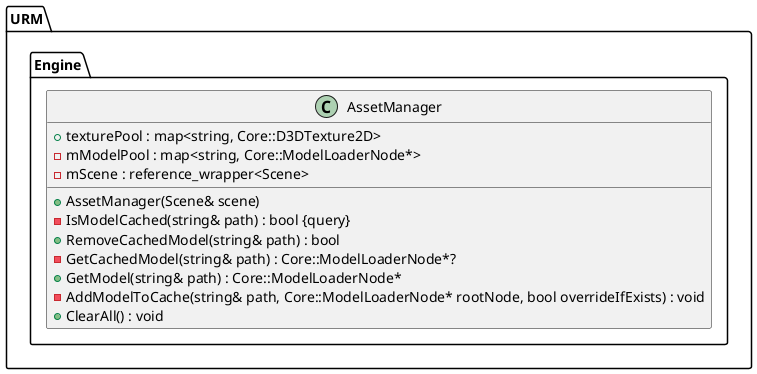
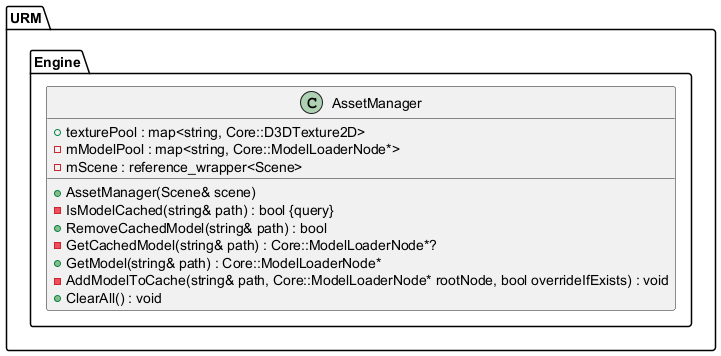
Finished chapter 5.

Changed region(s): [[0.0, 0.0, 1.0, 0.9888]]

diff --git a/Latex/chapter5.tex b/Latex/chapter5.tex
@@ -169,3 +169,25 @@ Pierwszym testowym rozwiązaniem było dodanie do sceny wskaźnika pustego typu 
 Drugą wersją byłoby utworzenie interfejsu typu \textit{IScene}, z którego następnie tworzone byłyby implementacje zawierające potrzebne dane. Niestety takie podejście także cierpi na konieczność walidacji typu danych przez obiekty sceny i ich pobierania przy pomocy niebezpiecznych konwersji, w związku z czym ta opcja i jej podobne także zostały odrzucone. 
 
 Ostatecznie przyjętym rozwiązaniem był kompromis na płaszczyźnie modularności. Warstwa rdzeniowa pozostała zupełnie niezależnym od pozostałych tworem, ale poziomy sceny i silnika zostały zintegrowane do jednej, wspólnej warstwy. Struktury cache umieszczono w ramach klasy \textit{Scene}. Takie podejście narzuca jednak problem z rozszerzalnością nowego, zunifikowanego modułu, gdyż nie ma bezpośredniej możliwości rozszerzenia jej o dodatkowe cache'owane dane. W związku z tym podjęta została decyzja o zmianie formy dystrybucji biblioteki na open-source. W większości docelowych przypadków użycia modułu nie będzie konieczności modyfikacji danych przechowywanych w ramach sceny i w takich przypadkach możliwe jest korzystanie z niego w formie prekompilowanej biblioteki, ale jeśli taka konieczność nastąpi to możliwe i zalecane jest dodanie warstwy silnika (z uwzględnioną w niej funkcjonalnością sceny) jako biblioteki w formie zintegrowanego do aplikacji klienta, modyfikowalnego kodu źródłowego. 
+
+\subsection{DPI awareness}
+Drobnym, ale istotnym problemem okazało się zachowanie aplikacji w przypadku konfiguracji komputerowych, w których skalowanie ekranu ustawione jest na wartość inną niż 100\%. System Windows raportuje w takich przypadkach rozdzielczość ekranu pomniejszoną o współczynnik skali, a następnie skaluje okna aplikacji o jej wartość. Dla przykładu przy skalowaniu 200\% i rozdzielczości monitora 4000x2000, system raportuje do aplikacji wartość 2000x1000, a następnie dwukrotnie skaluje jej okno, czego efektem jest rozmyty, niewyraźny obraz, co w wyolbrzymionej formie pokazane zostało na rys. \ref{Impl_DpiAwareness}.
+
+Rozwiązaniem jest załączenie do modułu tzw. manifest'u, czyli informacji o obsługiwanych przez aplikację funkcjach i uwzględnienie wśród nich DPI Awareness. Aplikacja raportująca wsparcie tego rozszerzenia nie jest traktowana przez system w opisany sposób, a zamiast tego otrzymuje prawdziwe informacje o monitorze i nie jest ona skalowana. W przypadku aplikacji renderujących trójwymiarową grafikę jest to preferowany sposób działania i w związku z tym manifest został dodany do modułu. 
+
+\begin{figure}[h!]
+	\centering
+	\includegraphics[width=\textwidth]{images/impl/4_dpi_awareness_8x.png}
+	\caption{Wizualizacja efektu rozmycia przy braku DPI awareness aplikacji - na przykładzie dla skalowania 800\%.}
+	\label{Impl_DpiAwareness}
+\end{figure}
+
+\vfill
+
+\subsection{Caching wczytywanych modeli}
+Dekodowanie danych o modelach oraz ich wczytywanie z dysku jest zadaniem wymagającym pod względem wymaganej mocy obliczeniowej i czasu potrzebnego do przetworzenia takich danych. Często spotykanym w świecie trójwymiarowych scen jest też zachowanie aplikacji, w których wczytują one pojedynczy model do wielokrotnego wykorzystania - na przykład krzak w grze z otwartym światem. Przy takim zachowaniu marnotrawnym byłoby każdorazowe przechodzenie przez proces wczytywania i dekodowania danych o tym samym modelu z dysku, więc w ramach modułu silnika utworzony został mechanizm zarządzania zasobami w postaci klasy \textbf{AssetManager}. Przechowuje ona wczytane modele i tekstury do późniejszego wykorzystania, ale pozwala także na ich zwolnienie przy zmianie sceny albo w sytuacjach o zmniejszonej dostępności wolnej pamięci podręcznej. 
+
+\subsection{PBR i system materiałów}
+Renderowanie oparte o PBR \textit{(ang. Physically Based Rendering)} jest aktualnym standardem w branży grafiki trójwymiarowej, więc obsługa renderowania o ten standard opartego została dodana do warstwy silnika. Z założenia modularności wynika jednak, że nie powinien być to jedyny wspierany system oświetlenia. Pierwszą próbą połączenia różnych typów kalkulacji świateł było wydzielenie najważniejszych komponentów Pixel Shader'a do osobnego pliku i dalszego wykorzystania. Chcąc utworzyć funkcjonalność jak najbardziej otwartą koniecznym było jednak zadbanie o nieograniczanie aplikacji klienta w kwestii tworzenia nowych, dowolnie skonstruowanych i rozwiniętych materiałów. W związku z tym wprowadzony został rozwinięty względem warstwy rdzeniowej system materiałów. Opiera się on na bazowej klasie \textbf{Material}, definiującej użyty do materiału Pixel Shader oraz przesyłanego do niego dane w postaci struktury typu \textbf{ConstantBuffer} i pozwala na zaimplementowanie wirtualnie dowolnej kombinacji materiału i programu cieniującego. 
+
+Największym problemem związanym z takim systemem okazało się jego połączenie z autodetekcją materiałów wczytywanych modeli. Została tutaj podjęta decyzja o ograniczeniu wsparcia tego mechanizmu jedynie do oświetlenia typu PBR, ale pozostawienie możliwości ręcznej implementacji podobnej funkcjonalności na podstawie opisanych przy okazji warstwy rdzeniowej \textit{MaterialProperties}. 

diff --git a/Latex/chapter11.tex b/Latex/chapter11.tex
@@ -65,7 +65,7 @@ Stworzona pierwotnie przez Marko Dabrovic'a, następnie ulepszona przez niemieck
 \vfill
 \clearpage
 
-\section{Demo detali - Roman Marble Plinth}
+\subsection{Demo detali - Roman Marble Plinth}
 Opisywany już w rozdziale testów model \textit{Roman Marble Ornate Plinth} z pakietu Quixel Megascans został głównym obiektem tej sekcji, ze względu na dużą ilość detali geometrii i tekstur. Przedstawiony w dwóch wersjach na rys. \ref{test_highpoly} model charakteryzuje się wysokim narzutem wydajnościowym przy rysowaniu, co dało wyraźny znak przy określaniu wydajności dema, czego szczegóły zostały przedstawione w poniższej tabeli.
 
 \begin{center}
@@ -95,7 +95,7 @@ Opisywany już w rozdziale testów model \textit{Roman Marble Ornate Plinth} z p
 	\label{test_highpoly}
 \end{figure}
 
-\section{Materiały}
+\subsection{Materiały}
 Ostatnim demo przedstawiającym główne funkcjonalności modułu jest pokazanie możliwości zaimplementowanego systemu materiałów. Scena testu, pokazana na rys. \ref{demo_materials} składa się z 3 głównych części.
  
 Głównym, środkowym elementem jest zbiór modeli kul o różnych parametrach materiałów. Elementy czerwone mają przypisany materiał typu PBR, a ich umieszczenie pokazuje różnice między jego parametrami. W osi pionowej od góry do dołu rośnie wartość chropowatości powierzchni - \textit{roughness}, a w poziomej od lewej do prawej parametr metaliczności. Kule zielone rysowane są przy pomocy uproszczonego materiału, a kolejne instancje zwiększają konfigurację chropowatości od lewej do prawej. 

diff --git a/diagrams/genUmlFromLib.py b/diagrams/genUmlFromLib.py
@@ -189,12 +189,14 @@ def scene_objects_model_uml_processor(lines_list: list[str]) -> list[str]:
     found_model_constructor = False
     found_deduce_material = False
     for (i, line) in enumerate(lines_list):
-        if line.strip() == "+MeshObject(Core::Mesh<Core::ModelLoaderVertexType>* mesh, Core::VertexShader* vertexShader, Core::D3DInputLayout<Core::ModelLoaderVertexType>* inputLayout, Core::Material* material)":
+        if line.strip().startswith("+MeshObject("):
             lines_list[i] = shorten_line_parameters(line)
+            lines_list[i] = shorten_params(lines_list[i])
             found_mesh_constructor = True
 
-        if line.strip() == "+ModelObject(string& path, Core::Material* material, Core::VertexShader* vertexShader, Core::ModelLoaderLayout* layout)":
+        if line.strip().startswith("+ModelObject("):
             lines_list[i] = shorten_line_parameters(line)
+            lines_list[i] = shorten_params(lines_list[i])
             found_model_constructor = True
 
         if "-TryDeduceMaterial(D3DCore& core, Core::MaterialProperty[] properties) : Core::Material*" in line:

diff --git a/Latex/chapter6.tex b/Latex/chapter6.tex
@@ -154,7 +154,7 @@
 		
 	\begin{figure}[h!]
 		\centering
-		\includegraphics[width=\textwidth]{images/UML/modelloader.png}
+		\includegraphics[width=200px]{images/UML/modelloader.png}
 		\caption{Schemat klasy statycznej ModelLoader wraz ze strukturą typu ModelLoaderNode.}
 		\label{UML_ModelLoader}
 	\end{figure}
@@ -168,7 +168,7 @@
 	
 	\begin{figure}[h!]
 		\centering
-		\includegraphics[width=\textwidth]{images/UML/texture.png}
+		\includegraphics[width=350px]{images/UML/texture.png}
 		\caption{Schemat modułu tekstur.}
 		\label{UML_Textures}
 	\end{figure}
@@ -330,7 +330,7 @@
 	
 	\begin{figure}[h!]
 		\centering
-		\includegraphics[width=\textwidth]{images/UML/engine.png}
+		\includegraphics[width=400px]{images/UML/engine.png}
 		\caption{Klasa reprezentująca silnik modułu oraz przynależne do niego klasy.}
 		\label{UML_Engine}
 	\end{figure}

diff --git a/Latex/chapter10.tex b/Latex/chapter10.tex
@@ -33,15 +33,14 @@ Do poprawy wydajności należałoby podejść od strony optymalizacji techniki r
 
 Zrzut ekranu ze stanu wyświetlania po osiągnięciu zadanego celu wydajnościowego został przedstawiony na rys. \ref{demo_test_lights}.
 
+\vfill
+
 \begin{figure}[h!]
 	\centering
 	\includegraphics[width=\textwidth]{images/demo_test_lights.png}
 	\caption{Zrzut ekranu przedstawiający test oświetlenia z aktywnymi 1647 źródłami światła.}
 	\label{demo_test_lights}
 \end{figure}
-
-\vfill
-\clearpage
 
 \section{Test wielu obiektów}
 \label{section_test_multilpe_objects}
